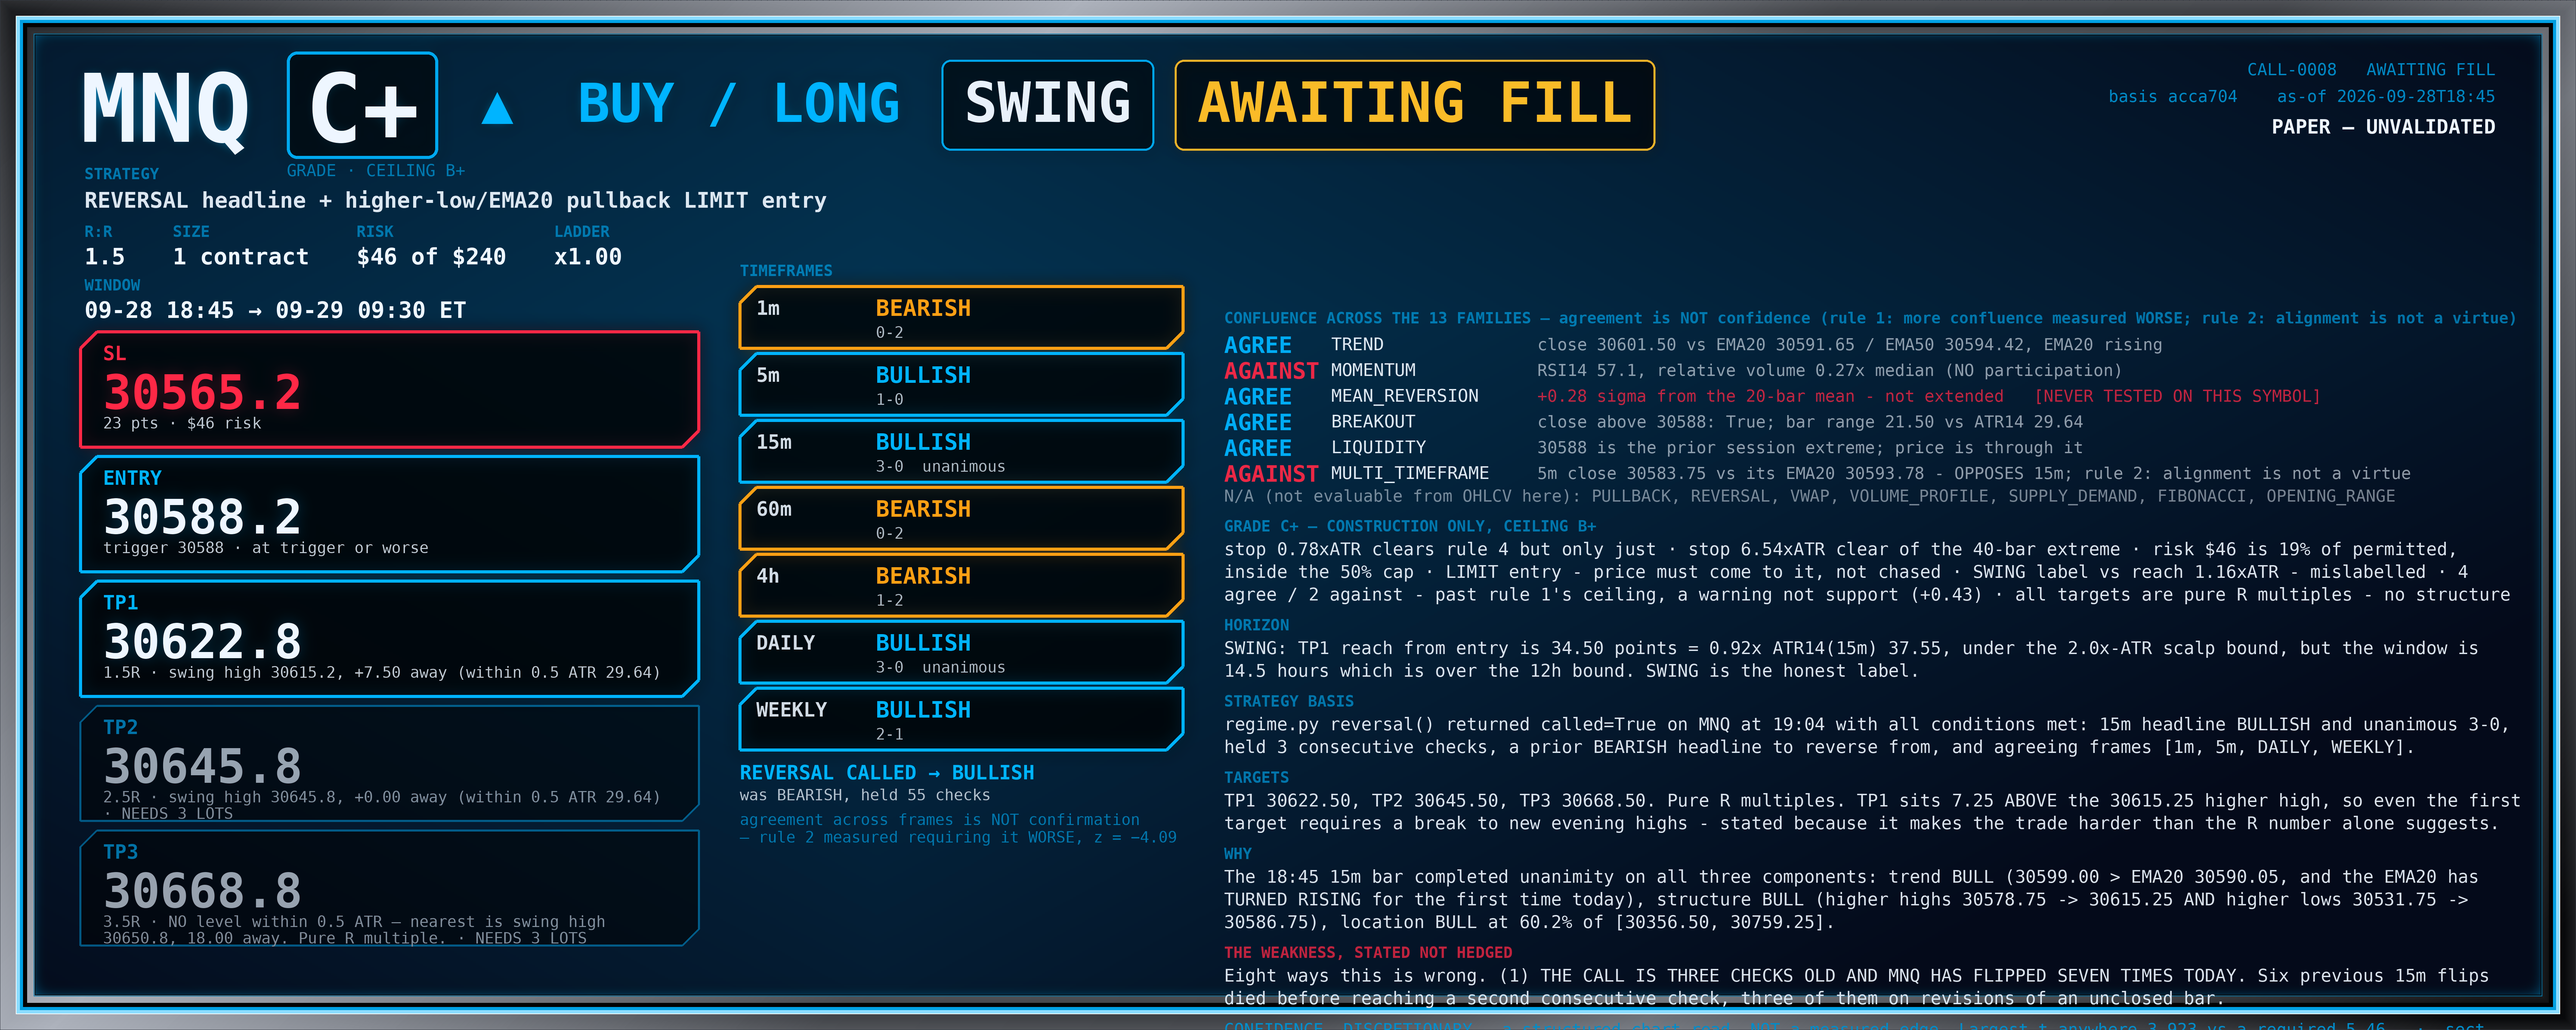
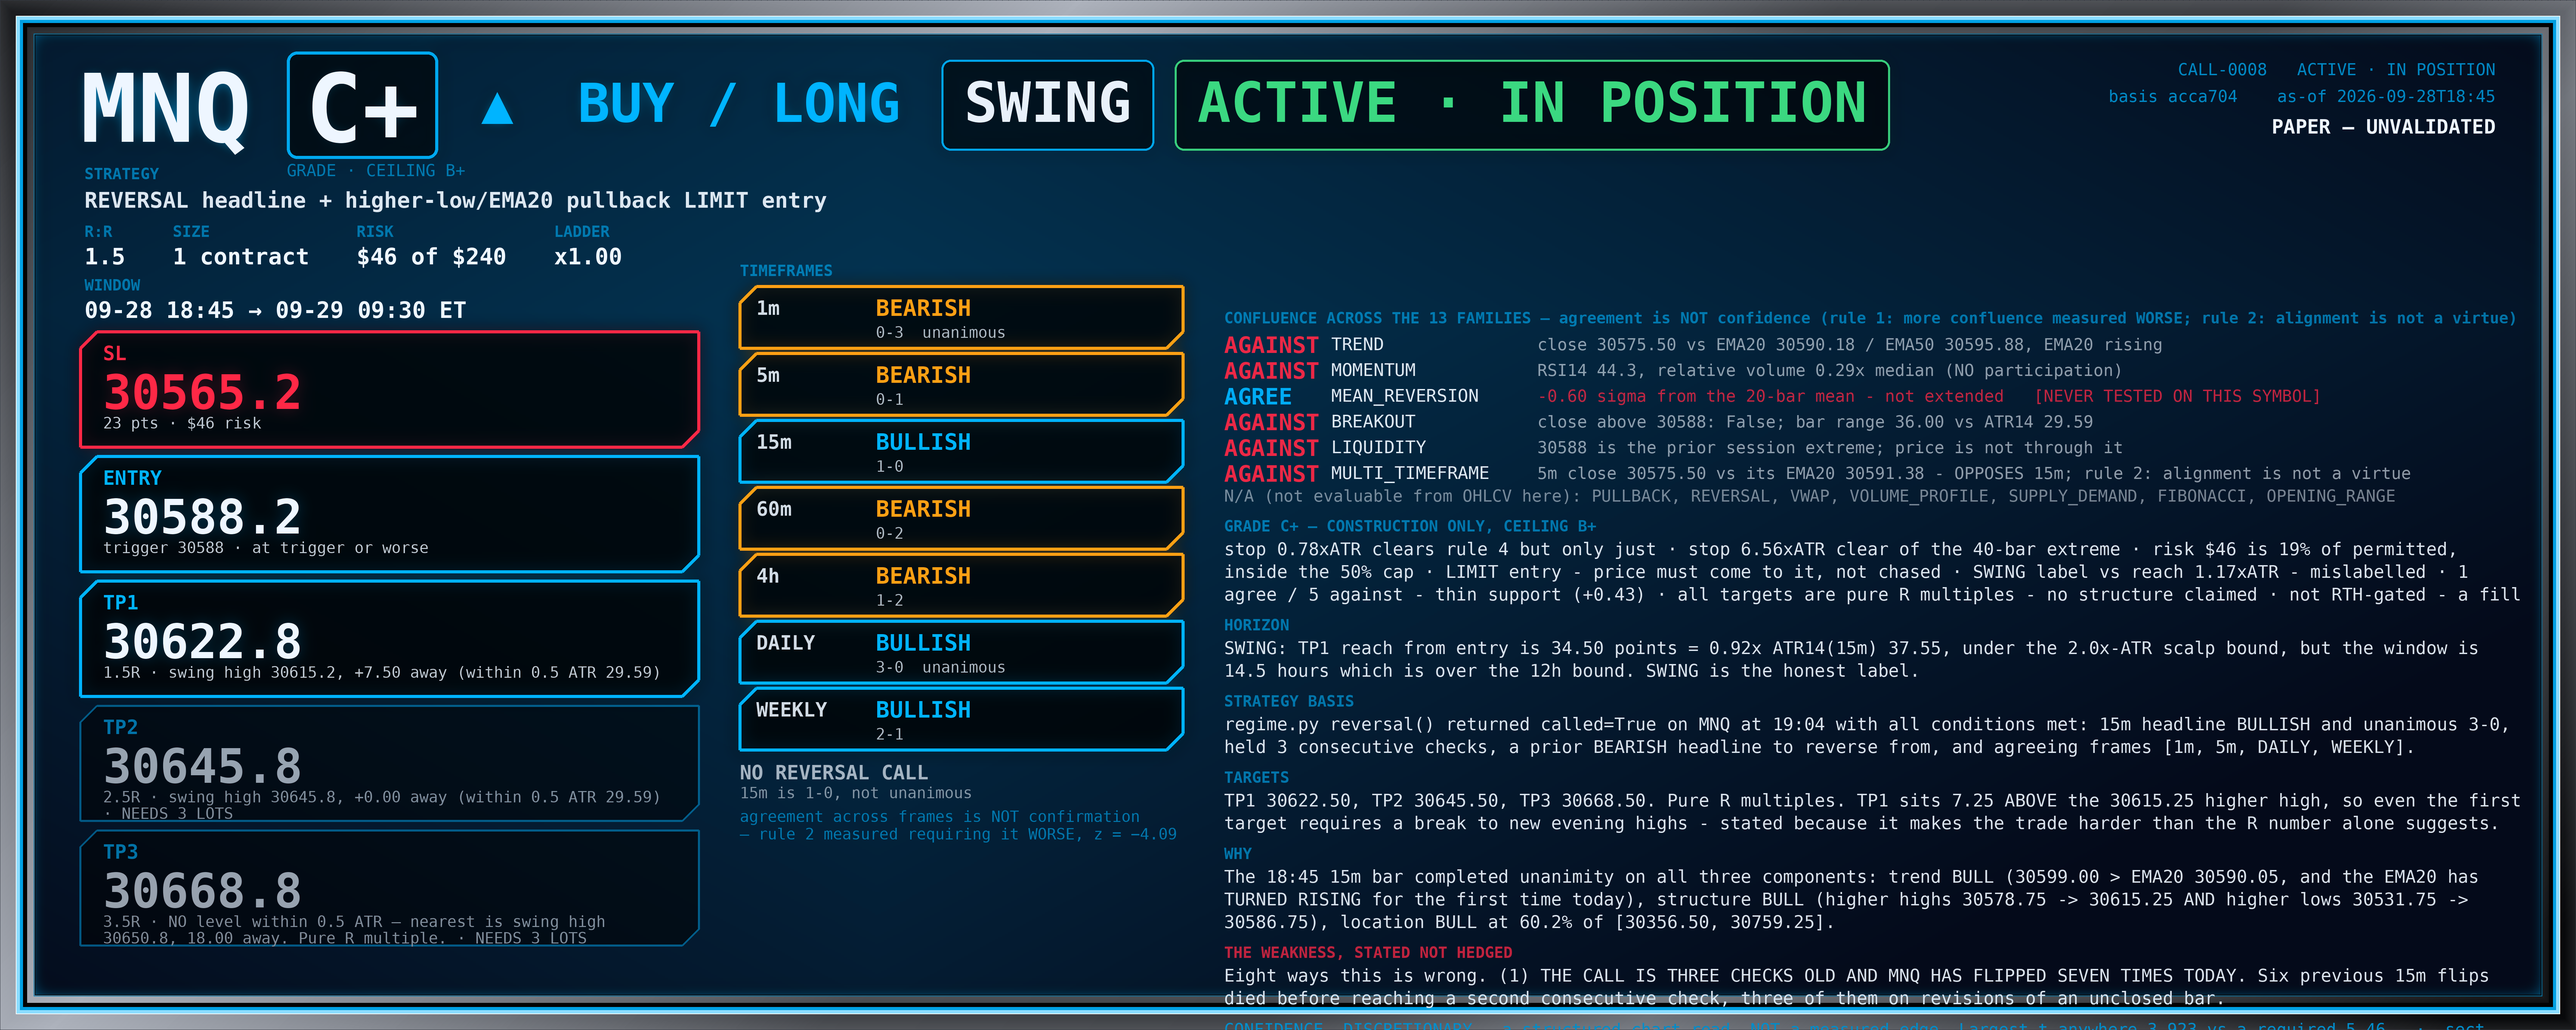
CALL desk: 20:00 - CALL-0008 FILLED, MNQ LONG @ 30588.00 on the 15m 19:45 bar; book is now two open positions in opposite directions, MGC short +0.80R and MNQ long -0.54R, $90 at stake and $10 unrealized
Claude-Session: https://claude.ai/code/session_01EE6PFk7fGa2tM4KP6dpfWD

diff --git a/workspace/paper/CALL/DECISIONS.md b/workspace/paper/CALL/DECISIONS.md
@@ -65,6 +65,7 @@ the second is how a veto flatters itself and quoting only the first is how a tra
 | 23 | 19:04 | **CALL-0008 — LONG MNQ pre-registered.** 15m went unanimous BULL 3-0 (EMA20 turned rising, higher high AND higher low), reversal called with agreeing frames [1m, 5m, DAILY, WEEKLY]. LIMIT BUY 30588.00, stop 30565.00 (23.00 pts = 0.61x ATR), TP1 30622.50, 1 contract, $46 | if both plans fill and both lose: **−$90 (−2R)**. Opposite directions on two markets is NOT a hedge — MGC and MNQ are independent, so these are two bets, not offsetting ones | the gate said yes with both vetoes clear; refusing a satisfied gate because the call is only 3 checks old is the discretionary veto N194 blamed for sitting out the morning trend | **the call is 3 checks old and MNQ has flipped 7 times today**; 60m and 4h both disagree; evening volume is 5.5% of RTH median on the newest bar. Sized against the BOOK ($90 of $120 cap), not against an empty account |
 | 24 | 19:16 | **Both gates have now genuinely lapsed — on a SETTLED bar, unlike the two revision artifacts at 19:00 and 19:08.** The 19:00 15m bar published (`new=1`): MGC structure MIXED on a higher low 4143.90→4152.70, MNQ structure MIXED on a lower high 30615.25→30605.75. Neither reversal is called | both plans stay live on evidence that has now really weakened. CALL-0007 is 3.40 from its limit and CALL-0008 is 7.25 from its, so either could still fill on a condition that no longer holds — **$90 at risk behind two lapsed gates** | N8 again: no editing a pre-registered plan after watching price, and no inventing a void rule mid-flight. The 19:02 episode proved why — I would have killed CALL-0007 on a number that came back | the distinction that matters: `new=1` means this lapse is real, `new=0 revised=1` meant the earlier two were not. Same reading, different evidential weight, and the desk must not treat them alike |
 | 25 | 19:36 | **CALL-0007 FILLED — first fill since CALL-0006.** MGC SHORT @ 4159.00, entry bar 15m `19:15`, stop 4163.40, TP1 4152.40, 1 contract, $44 at risk. `resolve.py` wrote it, not me | **it filled on a gate that had already lapsed.** I flagged that exact risk at 19:00 and again at 19:16 and declined to kill the plan for it; the risk has now materialised, and the trade is live on a condition that stopped holding 20 minutes before entry | the alternative was a post-hoc void rule invented mid-flight, which the 19:02 revision artifact proved would have killed a plan on a number that came straight back. N8 held and the cost of N8 holding is this fill | **the fill was detected 21 minutes after its entry bar** — the blind spot, exactly as N214 measures it. Position is already 1.10 points against me (−$11 unrealized, not realized); the 15m `19:15` bar high of 4161.40 came within 1.40 of the 4163.40 stop without hitting it |
+| 26 | 20:00 | **CALL-0008 FILLED — the book is now two positions, opposite directions.** MNQ LONG @ 30588.00, entry bar 15m `19:45`, stop 30565.00, $46. Written by `resolve.py`, which refused to call it at 19:56 when I could already see the 5m low through the limit, and confirmed it only when its own 15m bar settled | **$90 live across two trades and they are not offsetting** — MGC short +0.80R, MNQ long −0.54R, book +$10 unrealized. If both stop out that is −$90, and the 1m frame is unanimously bearish on both symbols right now | the gate called both, both vetoes were clear at both registrations, and both entries were pullback limits rather than the prohibited breakout. The desk did what it was built to do | **the long filled into a selloff.** Buying a higher low that then broke is the ordinary failure of a pullback entry, and MNQ is 10.50 from its stop. Its 15m has already decayed from 3-0 unanimous to 1-0 |
 
 ### What the tally actually says
 

diff --git a/workspace/paper/CALL/LEDGER.md b/workspace/paper/CALL/LEDGER.md
@@ -5,7 +5,7 @@ has a measured edge (largest *t* 3.923 against `free_t` 5.46), so this ledger is
 record of a *process*, not evidence of one. It is generated by `resolve.py`;
 do not hand-edit it.
 
-**Regenerated:** 2026-09-28T23:36:32+00:00 · **basis:** e341ba3
+**Regenerated:** 2026-09-29T00:00:40+00:00 · **basis:** cab564f
 
 ## Account
 
@@ -42,16 +42,7 @@ points for no expectancy gain, so either number alone is misleading.
 | id | symbol | side | entry | stop | next target | lots | risk $ |
 |---|---|---|---|---|---|---|---|
 | CALL-0007 | MGC | SHORT | 4159.0 | 4163.4 | 4152.4 (TP1) | 1/1 | $44.00 |
-
-## Pre-registered, awaiting trigger
-
-Written down *before* the price existed — which is the only thing in this
-programme that buys a lower threshold (`free_t` 1.177 for one pre-registered
-hypothesis against 5.46 for a searched population).
-
-| id | symbol | side | trigger | stop pts | targets (R) | lots | expires |
-|---|---|---|---|---|---|---|---|
-| CALL-0008 | MNQ | LONG | 30588.0 | 23.0 | TP1 1.5R | 1 | 2026-09-29T09:30:00-04:00 |
+| CALL-0008 | MNQ | LONG | 30588.0 | 30565.0 | 30622.5 (TP1) | 1/1 | $46.00 |
 
 ## Closed trades
 
